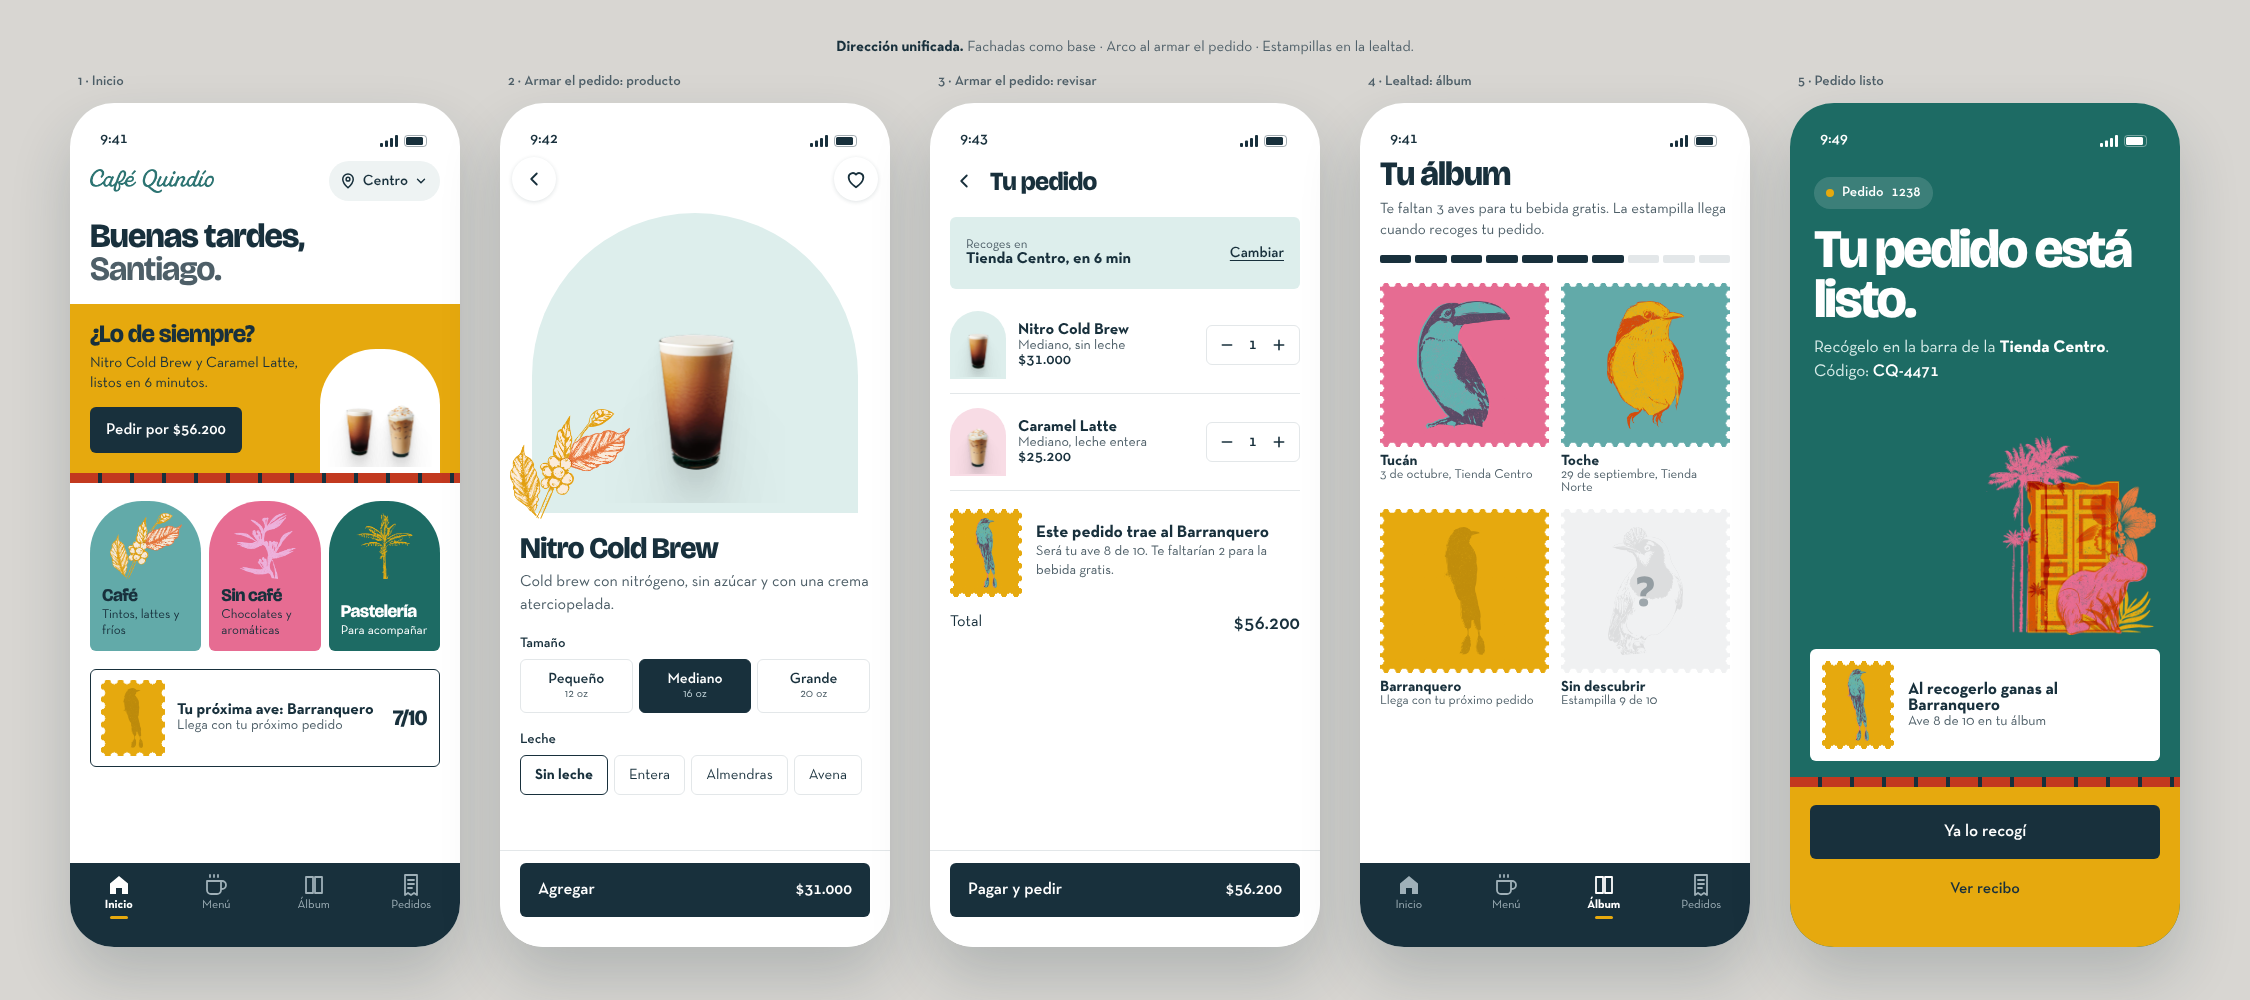
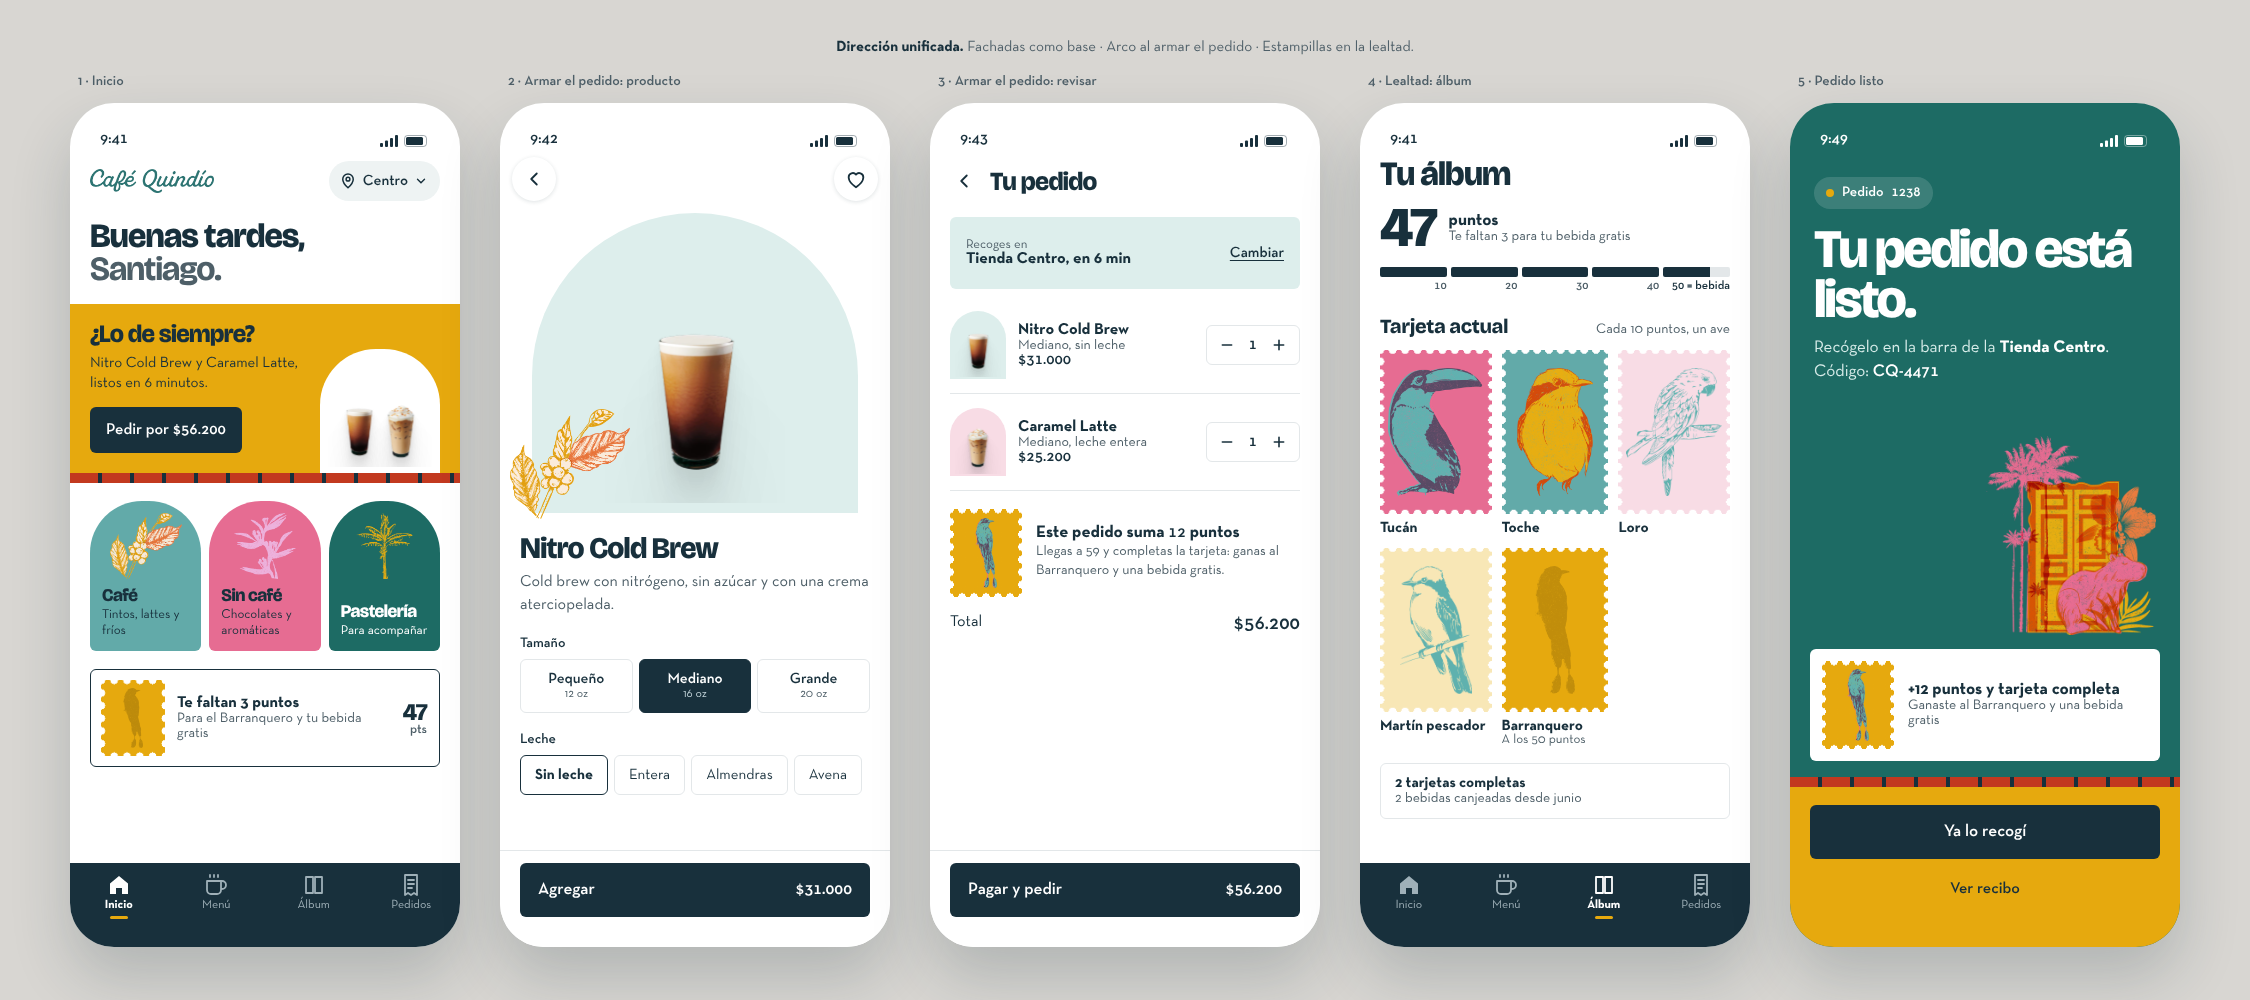
design: combinar puntos y álbum de aves en la lealtad
Los puntos siguen siendo el sistema oficial (50 = bebida gratis). El
álbum los representa: cada 10 puntos un ave, 5 aves por tarjeta.
Actualiza inicio, carrito, álbum y pedido listo.

Claude-Session: https://claude.ai/code/session_017b4ajLhgnLt3a39Fi3s7wp

diff --git a/design-demos/4-unificada.html b/design-demos/4-unificada.html
@@ -90,7 +90,8 @@ button:active { transform: scale(0.97); transition: transform 120ms var(--ease-o
 .teaser .in img { height: 60px; filter: grayscale(1) brightness(0); opacity: .18; }
 .teaser b { font-size: 16px; display: block; }
 .teaser small { font-size: 14px; color: var(--tinta-2); }
-.teaser .count { font-size: 22px; }
+.teaser .count { font-size: 24px; text-align: right; line-height: 1; }
+.teaser .count small { display: block; font: 600 13px Neutra; color: var(--tinta-2); letter-spacing: 0; }
 .tabbar { position: absolute; left: 0; right: 0; bottom: 0; height: 84px; background: var(--tinta); color: #9FB0B8;
   display: flex; justify-content: space-around; padding-top: 10px; }
 .tab { display: flex; flex-direction: column; align-items: center; gap: 3px; font-size: 12px; width: 72px; }
@@ -149,6 +150,20 @@ button:active { transform: scale(0.97); transition: transform 120ms var(--ease-o
 .meter { margin-top: 14px; display: grid; grid-template-columns: repeat(10, 1fr); gap: 4px; }
 .meter i { height: 8px; border-radius: 2px; background: var(--tinta); } .meter i.off { background: var(--linea); }
 .grid { display: grid; grid-template-columns: 1fr 1fr; gap: 14px 12px; padding: 20px 20px 0; }
+.pts { display: flex; align-items: center; gap: 12px; margin-top: 12px; }
+.pts > span { font-size: 56px; line-height: .9; }
+.pts b { font-size: 17px; display: block; } .pts small { font-size: 14px; color: var(--tinta-2); }
+.meter5 { margin-top: 14px; display: grid; grid-template-columns: repeat(5, 1fr); gap: 4px; }
+.meter5 i { height: 10px; border-radius: 2px; background: linear-gradient(90deg, var(--tinta) var(--p), var(--linea) var(--p)); }
+.scale { display: grid; grid-template-columns: repeat(5, 1fr); gap: 4px; margin-top: 4px; font: 600 12px NeutraTF, Neutra; color: var(--tinta-2); text-align: right; }
+.scale span:last-child { white-space: nowrap; color: var(--tinta); }
+.card-t { font: 800 20px Brico; letter-spacing: -0.02em; padding: 22px 20px 0; display: flex; justify-content: space-between; align-items: baseline; }
+.card-t small { font: 400 14px Neutra; letter-spacing: 0; color: var(--tinta-2); }
+.grid3 { display: grid; grid-template-columns: repeat(3, 1fr); gap: 12px 10px; padding: 12px 20px 0; }
+.grid3 .stamp { height: 128px; } .grid3 .in img { height: 98px; }
+.grid3 .nm { font-size: 14px; } .grid3 .dt { font-size: 12px; }
+.done { margin: 16px 20px 0; padding: 12px 14px; border: 1.5px solid var(--linea); border-radius: 6px; }
+.done b { font-size: 15px; display: block; } .done small { font-size: 14px; color: var(--tinta-2); }
 .slot .stamp { height: 164px; }
 .slot .in img { height: 128px; }
 .slot .nm { font-size: 15px; font-weight: 700; margin-top: 7px; }
@@ -216,8 +231,8 @@ button:active { transform: scale(0.97); transition: transform 120ms var(--ease-o
   </div>
   <div class="teaser">
     <div class="stamp"><div class="in"><img src="img/ave-barranquero.png" alt=""></div></div>
-    <div><b>Tu próxima ave: Barranquero</b><small>Llega con tu próximo pedido</small></div>
-    <span class="count b">7/10</span>
+    <div><b>Te faltan 3 puntos</b><small>Para el Barranquero y tu bebida gratis</small></div>
+    <span class="count b num-b">47<small>pts</small></span>
   </div>
 </div></div>
 
@@ -265,7 +280,7 @@ button:active { transform: scale(0.97); transition: transform 120ms var(--ease-o
   </div>
   <div class="prize">
     <div class="stamp"><div class="in"><img src="img/ave-barranquero.png" alt=""></div></div>
-    <div><b>Este pedido trae al Barranquero</b><small>Será tu ave 8 de 10. Te faltarían 2 para la bebida gratis.</small></div>
+    <div><b>Este pedido suma <span class="num">12</span> puntos</b><small>Llegas a 59 y completas la tarjeta: ganas al Barranquero y una bebida gratis.</small></div>
   </div>
   <div class="totals"><span>Total</span><span class="num">$56.200</span></div>
   <div class="foot"><button class="primary"><span>Pagar y pedir</span><span class="num">$56.200</span></button></div>
@@ -277,15 +292,21 @@ button:active { transform: scale(0.97); transition: transform 120ms var(--ease-o
   <div class="status"><span class="num">9:41</span></div>
   <div class="al-head">
     <h1 class="b">Tu álbum</h1>
-    <p>Te faltan 3 aves para tu bebida gratis. La estampilla llega cuando recoges tu pedido.</p>
-    <div class="meter" aria-label="7 de 10 aves"><i></i><i></i><i></i><i></i><i></i><i></i><i></i><i class="off"></i><i class="off"></i><i class="off"></i></div>
+    <div class="pts"><span class="b">47</span><div><b>puntos</b><small>Te faltan 3 para tu bebida gratis</small></div></div>
+    <div class="meter5" aria-label="47 de 50 puntos: 4 aves de 5">
+      <i style="--p:100%"></i><i style="--p:100%"></i><i style="--p:100%"></i><i style="--p:100%"></i><i style="--p:70%"></i>
+    </div>
+    <div class="scale"><span>10</span><span>20</span><span>30</span><span>40</span><span>50 = bebida</span></div>
   </div>
-  <div class="grid">
-    <div class="slot"><div class="stamp"><div class="in"><img src="img/ave-tucan.png" alt=""></div></div><div class="nm">Tucán</div><div class="dt">3 de octubre, Tienda Centro</div></div>
-    <div class="slot"><div class="stamp" style="--c:var(--teal)"><div class="in"><img src="img/ave-toche.png" alt=""></div></div><div class="nm">Toche</div><div class="dt">29 de septiembre, Tienda Norte</div></div>
-    <div class="slot next"><div class="stamp"><div class="in"><img src="img/ave-barranquero.png" alt=""></div></div><div class="nm">Barranquero</div><div class="dt">Llega con tu próximo pedido</div></div>
-    <div class="slot locked"><div class="stamp"><div class="in"><img src="img/ave-carriqui.png" alt=""></div></div><div class="nm">Sin descubrir</div><div class="dt">Estampilla 9 de 10</div></div>
+  <h2 class="card-t">Tarjeta actual <small>Cada 10 puntos, un ave</small></h2>
+  <div class="grid3">
+    <div class="slot"><div class="stamp"><div class="in"><img src="img/ave-tucan.png" alt=""></div></div><div class="nm">Tucán</div></div>
+    <div class="slot"><div class="stamp" style="--c:var(--teal)"><div class="in"><img src="img/ave-toche.png" alt=""></div></div><div class="nm">Toche</div></div>
+    <div class="slot"><div class="stamp" style="--c:var(--rosa-s)"><div class="in"><img src="img/ave-loro.png" alt=""></div></div><div class="nm">Loro</div></div>
+    <div class="slot"><div class="stamp" style="--c:var(--mostaza-s)"><div class="in"><img src="img/ave-martin.png" alt=""></div></div><div class="nm">Martín pescador</div></div>
+    <div class="slot next"><div class="stamp"><div class="in"><img src="img/ave-barranquero.png" alt=""></div></div><div class="nm">Barranquero</div><div class="dt">A los 50 puntos</div></div>
   </div>
+  <div class="done"><b>2 tarjetas completas</b><small>2 bebidas canjeadas desde junio</small></div>
 </div></div>
 
 <!-- 5 · LISTO -->
@@ -301,7 +322,7 @@ button:active { transform: scale(0.97); transition: transform 120ms var(--ease-o
   <div class="ground"></div>
   <div class="won">
     <div class="stamp"><div class="in"><img src="img/ave-barranquero.png" alt=""></div></div>
-    <div><b>Al recogerlo ganas al Barranquero</b><small>Ave 8 de 10 en tu álbum</small></div>
+    <div><b>+12 puntos y tarjeta completa</b><small>Ganaste al Barranquero y una bebida gratis</small></div>
   </div>
   <div class="actions">
     <button class="primary" style="justify-content:center">Ya lo recogí</button>

diff --git a/design-demos/direction-approved.md b/design-demos/direction-approved.md
@@ -26,3 +26,21 @@ Tipografía unificada: Bricolage Grotesque para titulares y cifras grandes y
 Neutra Text para todo lo demás. Archivo Expanded queda fuera.
 
 Prototipo unificado: `4-unificada.html`.
+
+## Puntos y álbum: se combinan (2026-10-14)
+
+> "lo apruebo, solo una cosa lo de los puntos entonces se quita por el album?
+> lo de los puntos es algo que pidio gerencia, no podemos hacer una
+> combinacion de ambos o usar los 2"
+
+Los puntos siguen siendo el sistema oficial, sin cambios en su regla
+(50 puntos = 1 bebida gratis, cada compra suma puntos). El álbum solo los
+muestra con ilustraciones:
+
+- Cada 10 puntos se gana un ave de la tarjeta actual (5 aves = 50 puntos).
+- La quinta ave llega junto con la bebida gratis; la tarjeta completa queda
+  guardada en el álbum y empieza una nueva.
+- Las aves se calculan a partir del saldo de puntos y las tarjetas
+  completadas, así que no requieren cambios en la regla del backend.
+- Las promociones de gerencia (por ejemplo, puntos x2) aceleran las aves
+  sin configuración adicional.
